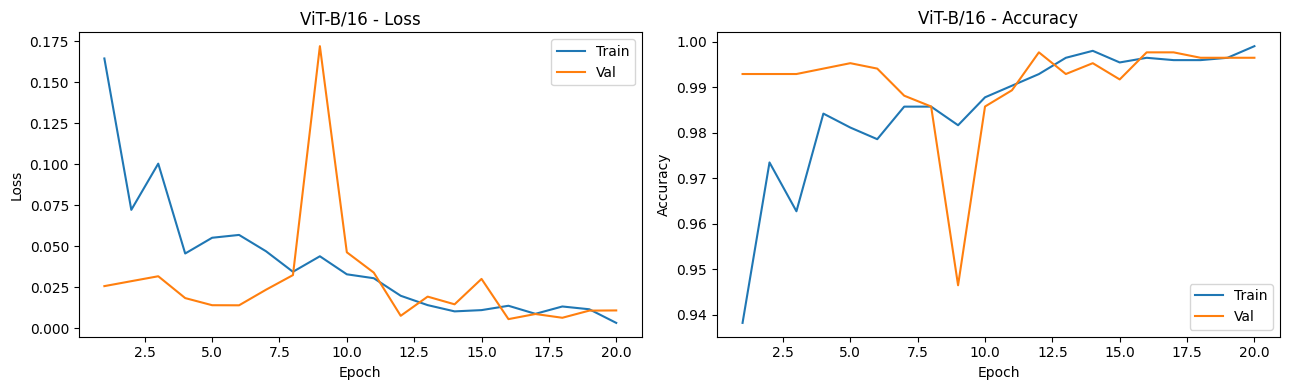
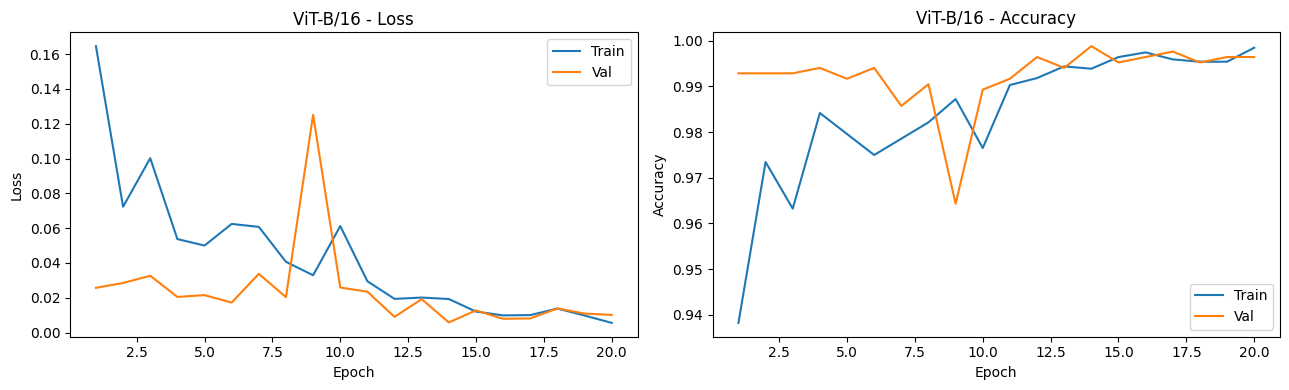
changes

diff --git a/src/evaluate.py b/src/evaluate.py
@@ -52,7 +52,7 @@ def plot_confusion_matrix(
     fig, axes = plt.subplots(1, 2, figsize=(13, 5))
     for ax, data, fmt, subtitle in [
         (axes[0], cm,      "d",    "Counts"),
-        (axes[1], cm_norm, ".2f",  "Normalised"),
+        (axes[1], cm_norm, ".3f",  "Normalised"),
     ]:
         sns.heatmap(
             data, annot=True, fmt=fmt, cmap="Blues",
